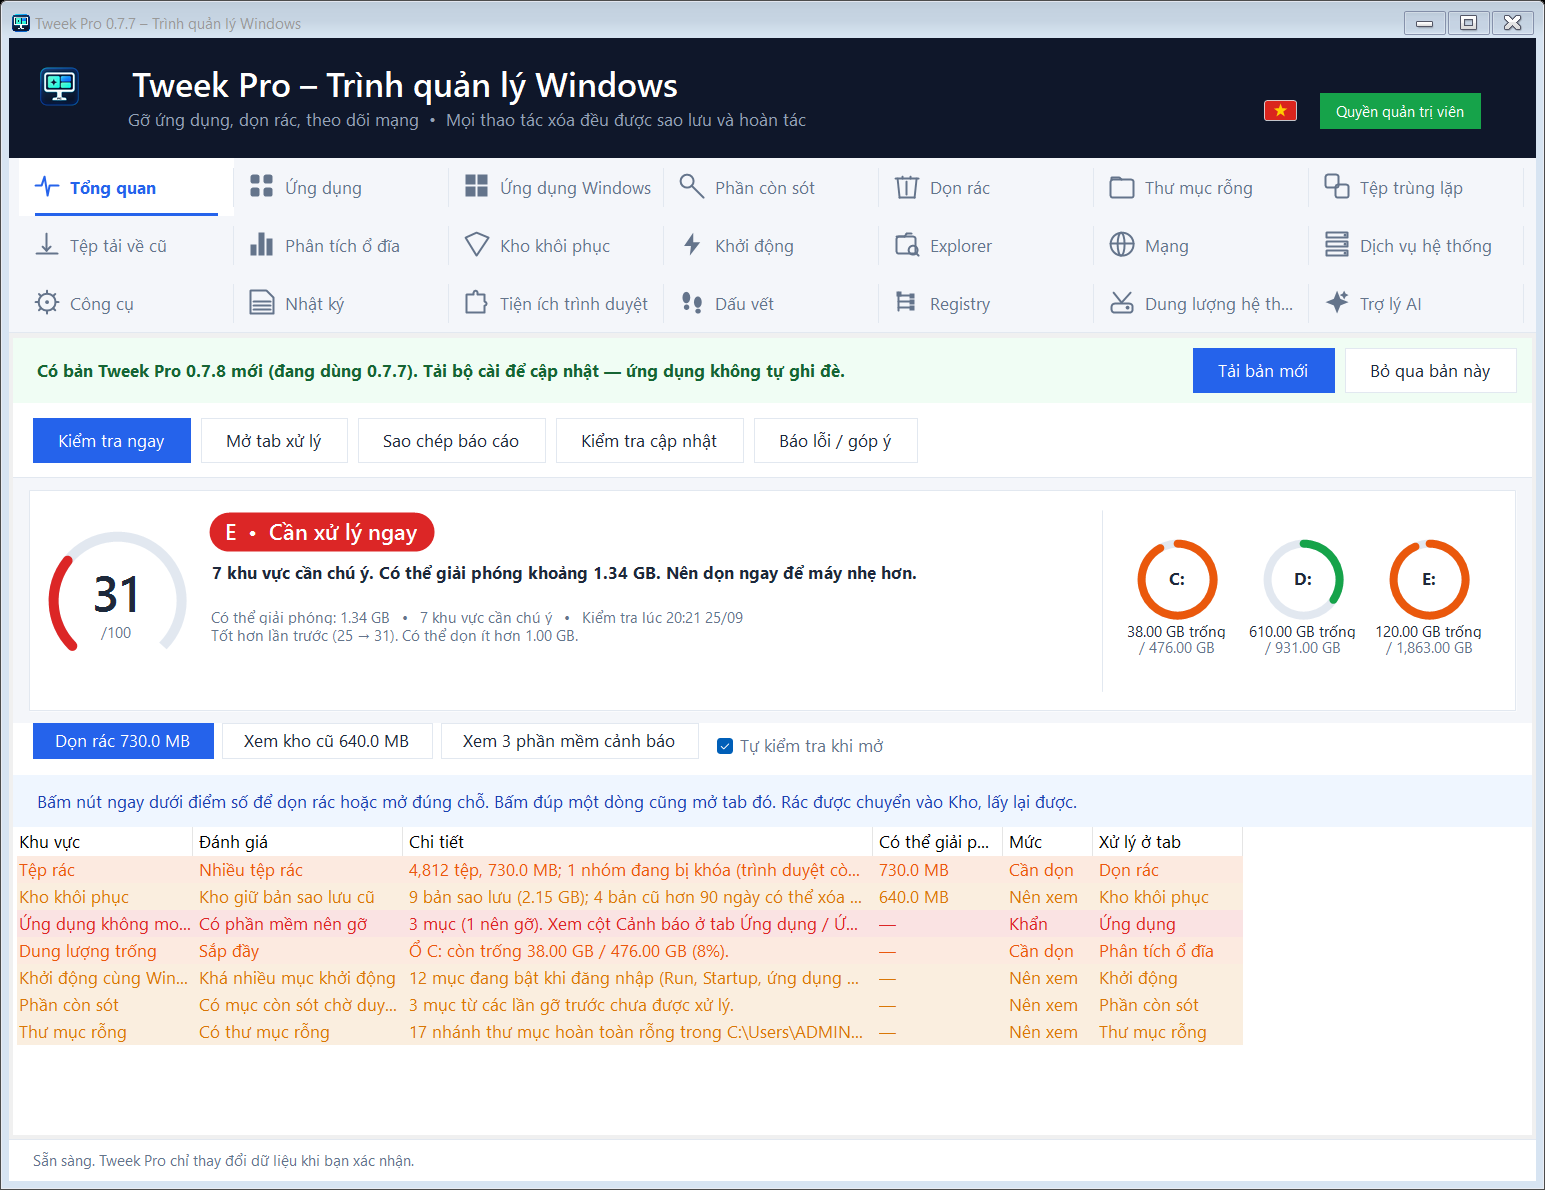
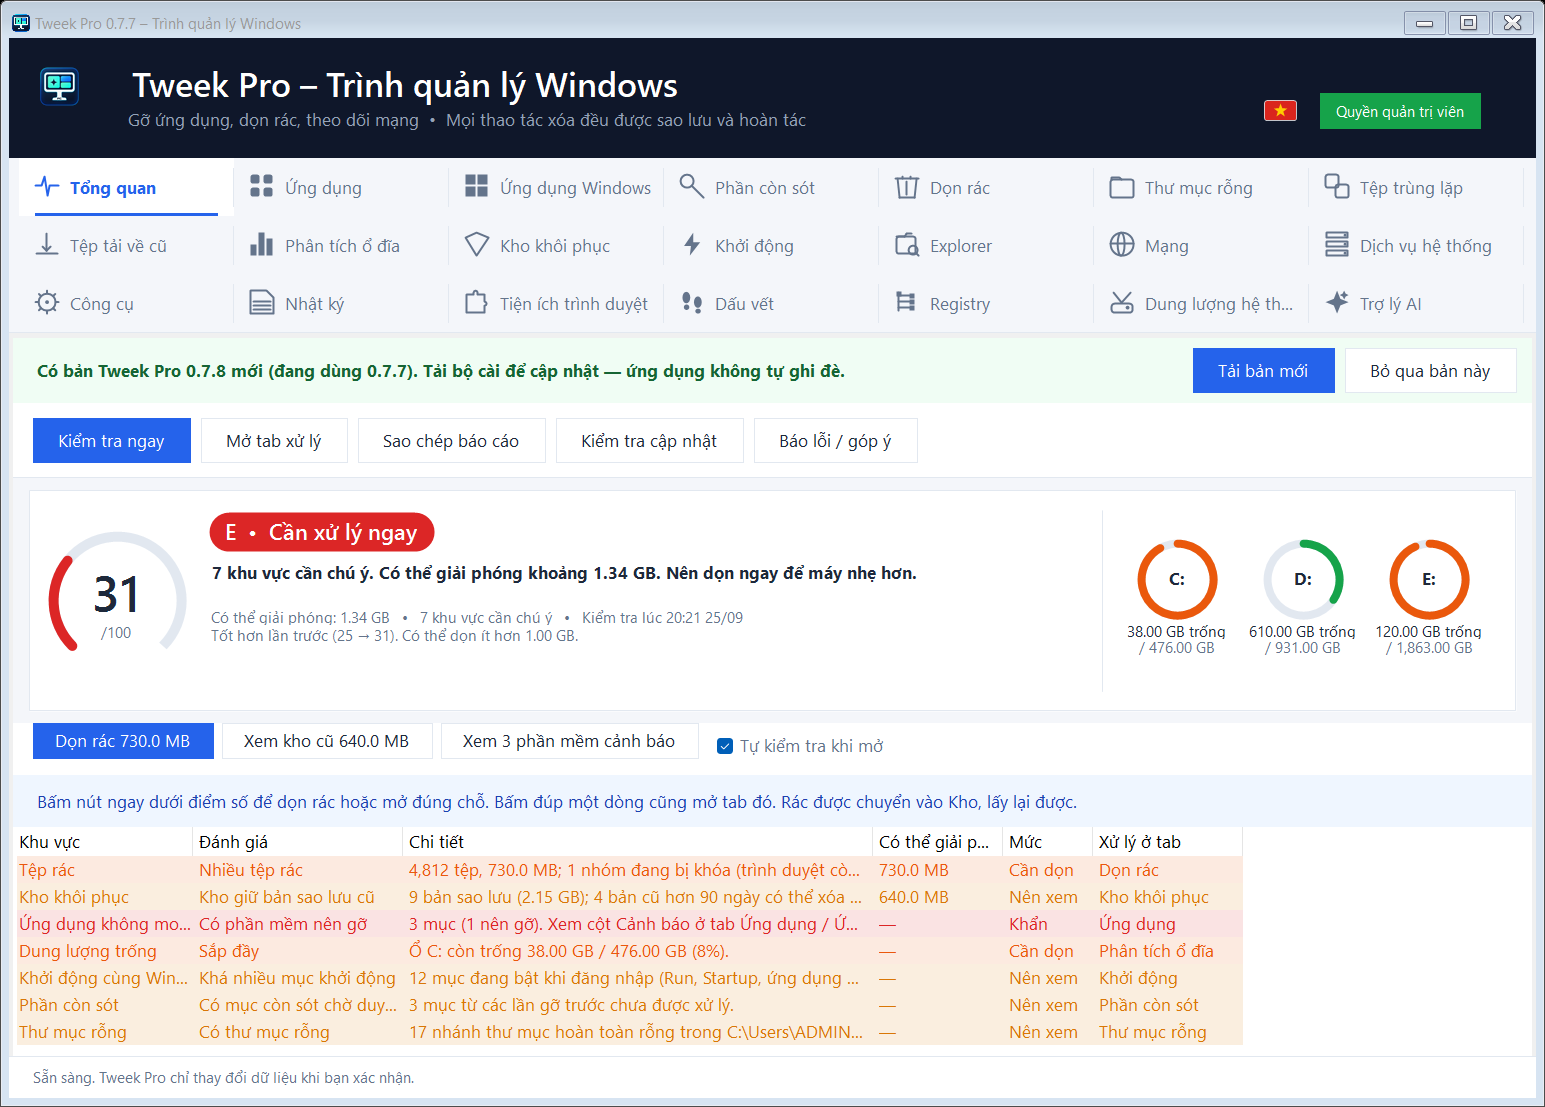
Crop the overview screenshot so the list sits on the status bar.

diff --git a/WORKSTATE.md b/WORKSTATE.md
@@ -6,7 +6,7 @@ Last editor: Cursor.
 
 ## Current task (21:55)
 
-0.7.9 stays the project version. The v0.7.9 tag was removed so the owner could test; local fixes since e625575 are the Hunter sight, the install-watch notice, and selecting the first application so the details pane is filled. Elevated `--self-test` PASS 2026-09-25T22:01:13 (0 warnings). Pushed `6aeb122` on `origin/main` and tag `v0.7.9` (Actions publishes the Release).
+0.7.9 stays the project version. The v0.7.9 tag was removed so the owner could test; local fixes since e625575 are the Hunter sight, the install-watch notice, and selecting the first application so the details pane is filled. Elevated `--self-test` PASS 2026-09-25T22:01:13 (0 warnings). Pushed `6aeb122` on `origin/main` and tag `v0.7.9`. Overview screenshot `docs/screenshots/health.png` cropped so the findings list sits on the status bar.
 
 ## Current task (20:10)
 
